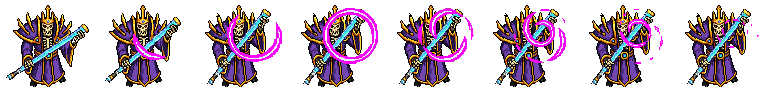
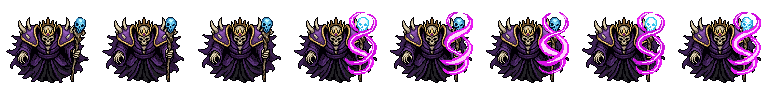
Bosses seen from straight above like every monster, turned toward their heading instead of mirrored: no more jump when they change side (PixelLab art regenerated)

diff --git a/tools/make_monsters.py b/tools/make_monsters.py
@@ -10,9 +10,7 @@ octopus still tools/octo_still.png, at its size: ~25 choices are kept in
 tools/monster_choices/<kind>/, the first becomes base.png (copy another one
 over it, delete its animations, and run again to change). One with "from" is
 a Pixen edit of that monster's base: its overhead pose kept, which a new
-look loses (PixelLab draws faces again). One with "front" (the bosses) is
-seen from above but a bit from the front, facing the bottom: its face gives it
-weight, and game/enemy.gd mirrors it instead of turning it.
+look loses (PixelLab draws faces again). The bosses too, at twice the size.
 
 Writes assets/monsters/<kind>/<anim>.png, strips of square frames (the
 frame size is the strip height), and assets/monsters/fx/<name>.png (same
@@ -86,22 +84,24 @@ MONSTERS = {
     "frost_mage_shield": (48, {"from": ("frost_mage", SHIELD)}, SHIELDED),
     "lightning_mage": (48, {"from": ("fire_mage", "replace the fire in its hands with crackling white balls of lightning" + KEEP)}, CAST),
     "lightning_mage_shield": (48, {"from": ("lightning_mage", SHIELD)}, SHIELDED),
-    "boss": (96, {"front": "a towering lich king, a skeleton in ornate violet robes with a golden crown, holding a glowing staff,"
-                           " huge imposing boss"}, {
-        "walk": "floating toward the viewer, robes flowing, seamless loop",
-        "summon": "raises its glowing staff, violet necrotic magic swirls around it, summoning",
-        "death": "staggers in agony, cracks of blinding violet light burst out of its body, about to explode"}),
-    "death_knight": (96, {"front": "a huge undead death knight in black spiked plate armor and spiked helmet,"
-                                   " a frost glowing greatsword, huge imposing boss"}, {
-        "windup": "raises its greatsword and roars, bracing to charge toward the viewer",
-        "slam": "slams its greatsword into the ground, an icy shockwave bursting around it",
-        "death": "staggers and drops to its knees, blinding icy blue light bursting through cracks in its armor, about to explode"}),
-    "abomination": (96, {"front": "a giant bloated undead flesh abomination stitched from corpses, green ooze dripping,"
-                                  " small stitched head sunk between huge shoulders, huge imposing boss"}, {
-        "walk": "lumbering heavily toward the viewer, seamless loop",
-        "summon": "its belly bursts open and small red imps crawl out",
-        "attack": "rears back and spews a wide spray of green acid toward the viewer",
-        "death": "swells up grotesquely, bloating bigger and bigger, glowing green light bursting through its seams, about to burst"}),
+    "boss": (96, {"look": (DARK + "a towering lich king, a skeleton in ornate violet robes, holding a glowing staff,"
+                                  " huge imposing boss", "skull wearing a golden crown")}, {
+        "walk": "floating toward the bottom of the image, robes flowing, seen from directly above, seamless loop",
+        "summon": "raises its glowing staff, violet necrotic magic swirls around it, summoning, seen from directly above",
+        "death": "staggers in agony, cracks of blinding violet light burst out of its body, about to explode, seen from directly above"}),
+    "death_knight": (96, {"look": (DARK + "a huge undead death knight in black spiked plate armor, a frost glowing greatsword,"
+                                          " huge imposing boss", "black spiked helmet")}, {
+        "windup": "raises its greatsword and roars, bracing to charge toward the bottom of the image, seen from directly above",
+        "slam": "slams its greatsword into the ground, an icy shockwave bursting around it, seen from directly above",
+        "death": "staggers and drops to its knees, blinding icy blue light bursting through cracks in its armor, about to explode,"
+                 " seen from directly above"}),
+    "abomination": (96, {"look": (DARK + "a giant bloated undead flesh abomination stitched from corpses, green ooze dripping,"
+                                         " huge shoulders, huge imposing boss", "small stitched head sunk between its shoulders")}, {
+        "walk": "lumbering heavily toward the bottom of the image, seen from directly above, seamless loop",
+        "summon": "its belly bursts open and small red imps crawl out, seen from directly above",
+        "attack": "rears back and spews a wide spray of green acid toward the bottom of the image, seen from directly above",
+        "death": "swells up grotesquely, bloating bigger and bigger, glowing green light bursting through its seams, about to burst,"
+                 " seen from directly above"}),
 }
 # Effects of the attacks (game/enemy.gd Shot and Zone, Run.ENEMIES "shot"), name -> brief.
 FX = {
@@ -154,9 +154,7 @@ def monster(kind: str) -> None:
     d.mkdir(parents=True, exist_ok=True)
     base = d / "base.png"
     if not base.exists():
-        if "front" in how:
-            base.write_bytes(art.front(DARK + how["front"], size))
-        elif "from" in how:
+        if "from" in how:
             src = OUT / how["from"][0] / "base.png"
             for _ in range(180):  # drawn by another job of this run
                 if src.exists():

diff --git a/server/art.py b/server/art.py
@@ -81,17 +81,6 @@ def icon(description: str, size: int = 32) -> bytes:
     return base64.b64decode(res["image"]["base64"])
 
 
-def front(description: str, size: int) -> bytes:
-    """A creature seen from above but a bit from the front (high top-down,
-    facing south): size x size PNG. The bosses: their face gives them weight."""
-    res = _request("POST", "/create-image-pixen", {
-        "description": description, "image_size": {"width": size, "height": size},
-        "no_background": True, "view": "high top-down", "direction": "south",
-        "outline": "single color black outline", "detail": "highly detailed",
-    })
-    return base64.b64decode(res["image"]["base64"])
-
-
 def styled(style: bytes, description: str, timeout: float = 600) -> list[bytes]:
     """Creatures drawn in the framing and look of the PNG `style` (its size,
     square) -> ~25 choices, PNGs."""
